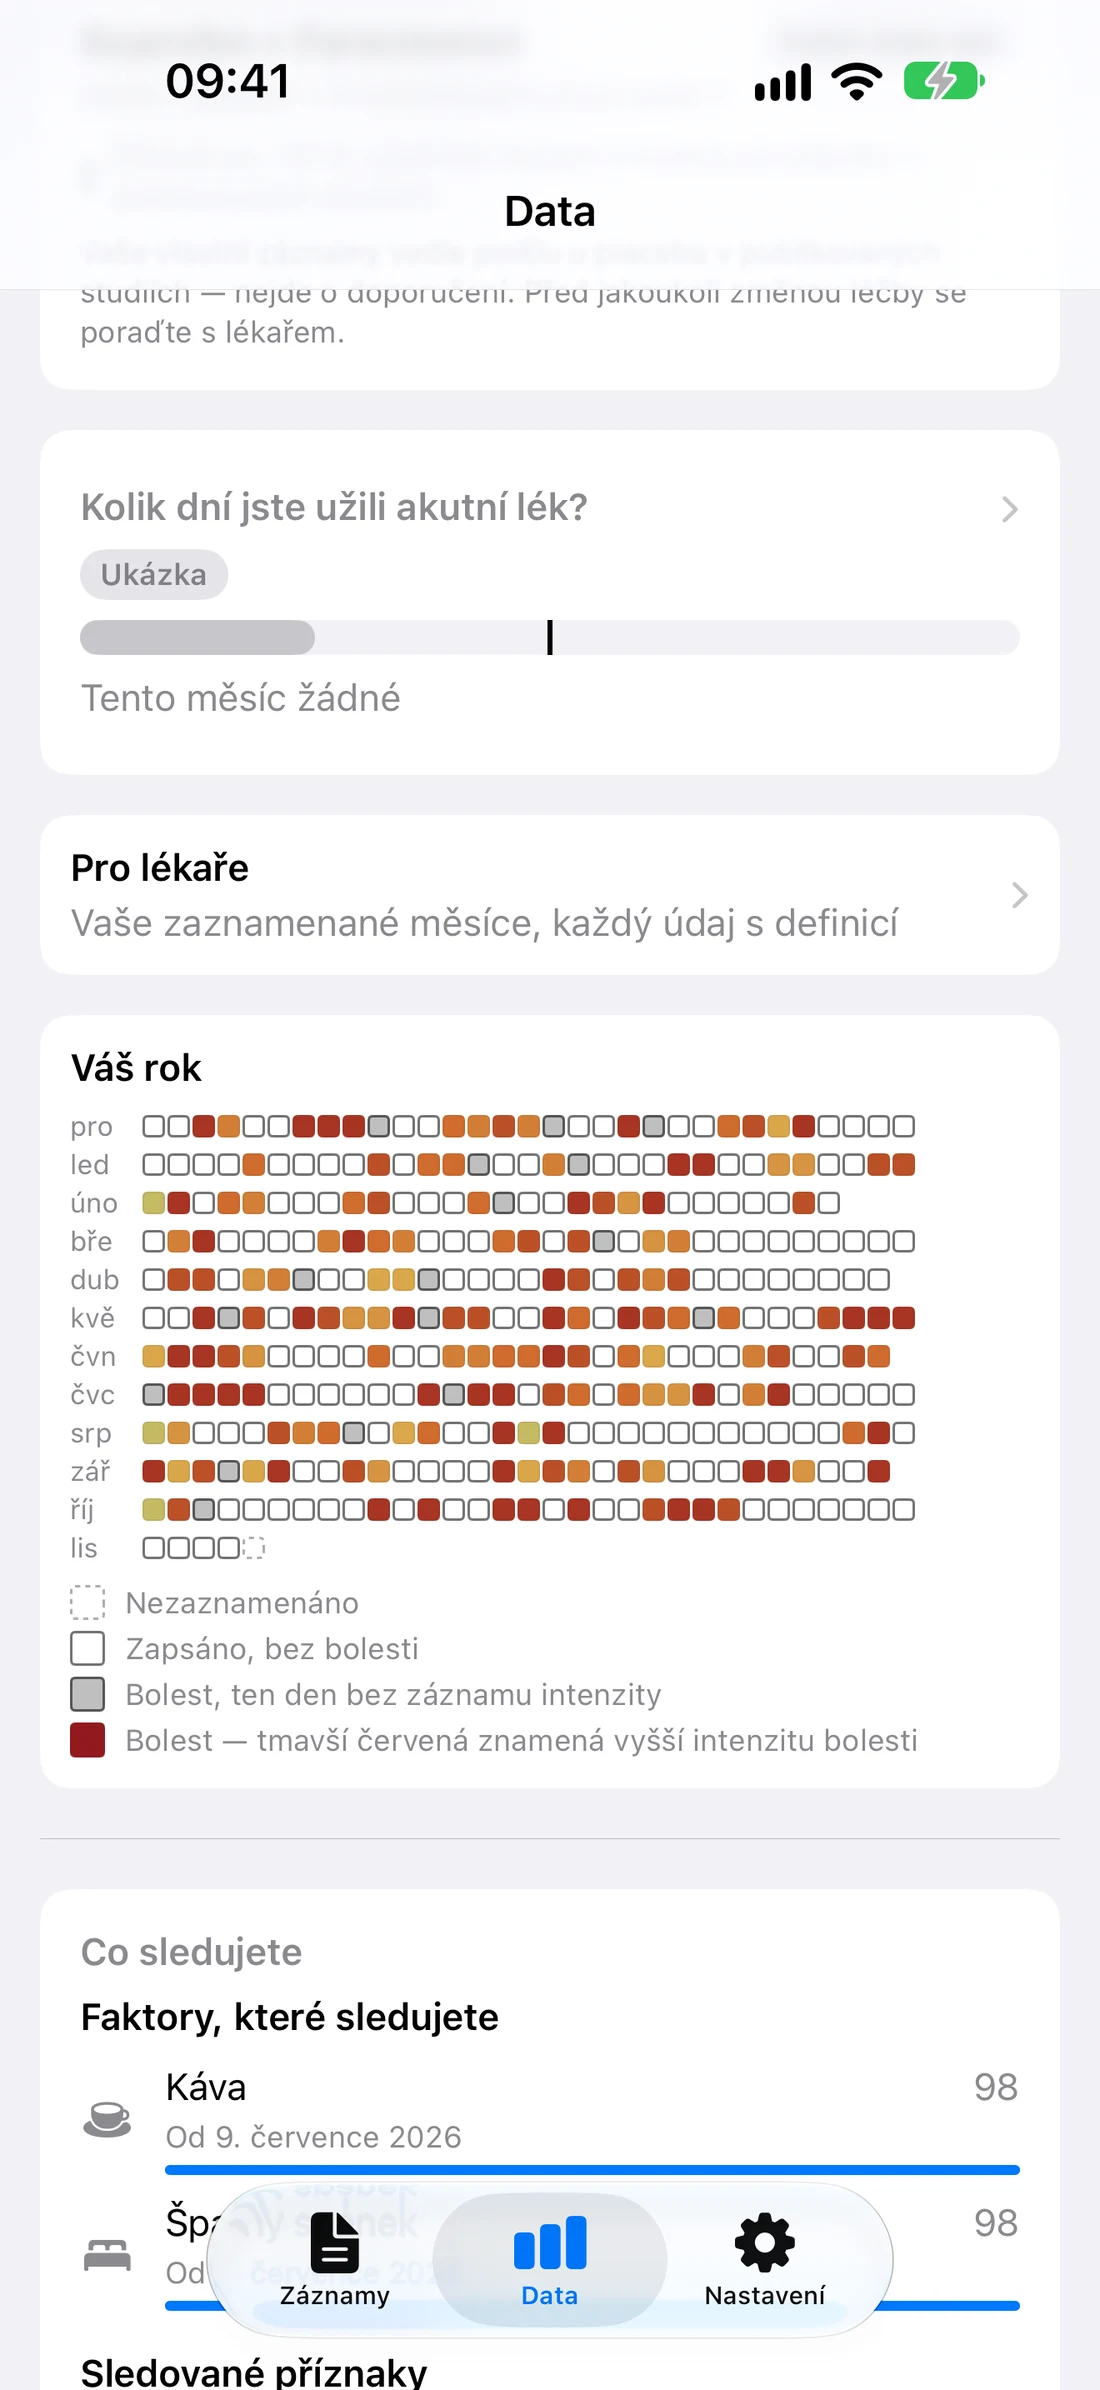
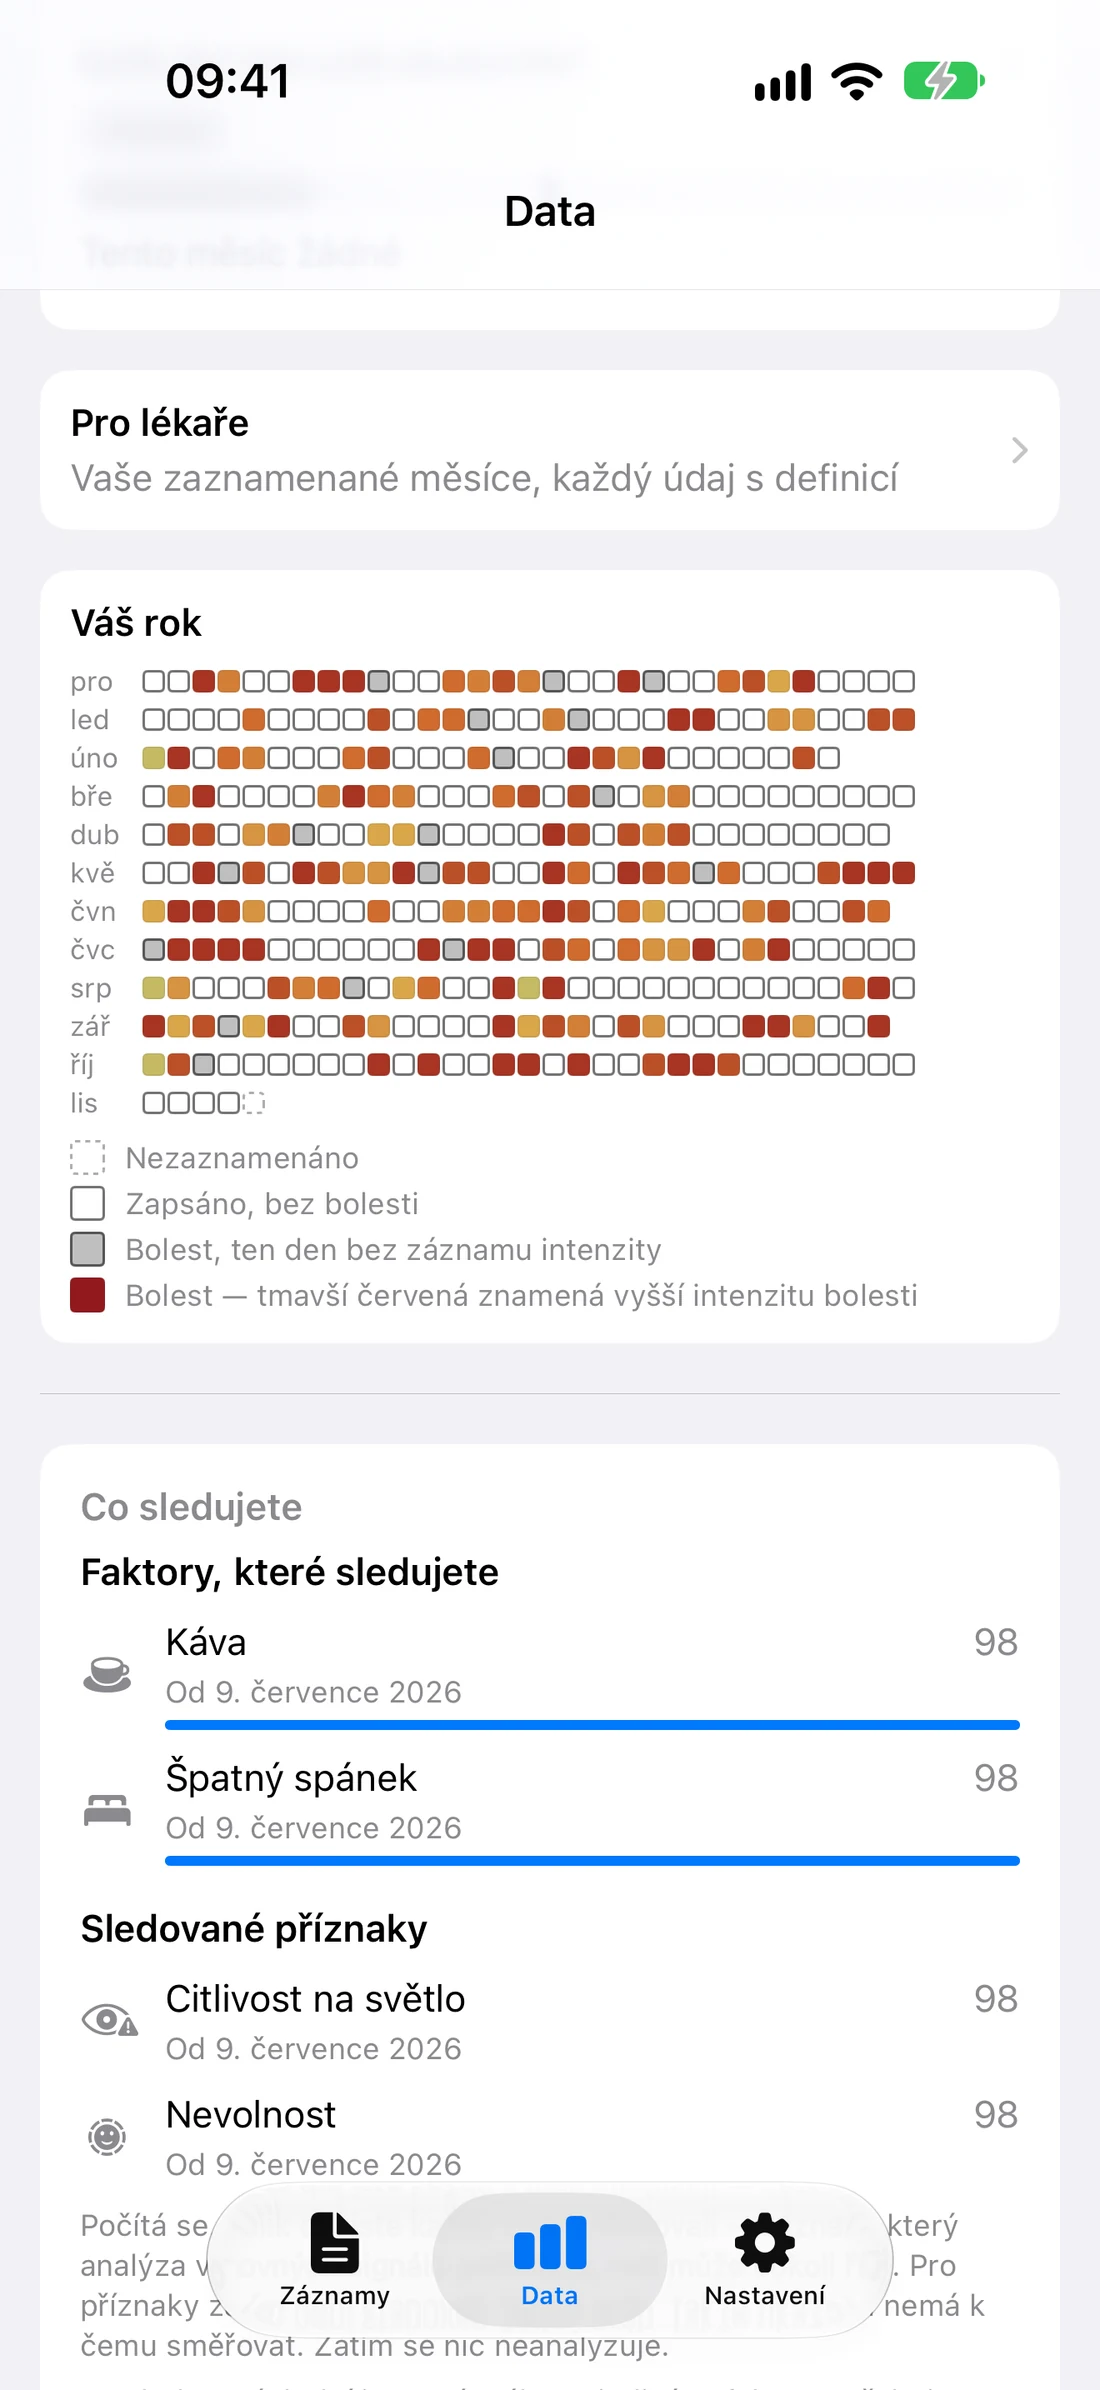
Languages: the recaptured Czech and Russian data screens
The assets session re-took the 1.1.0 data screen scrolled further, with the
For your doctor card at 150 pt, the same in every language. The share crop now
starts where the card is: 72.7% of the width down on the English capture, 26%
on the translated ones.

diff --git a/src/styles/landing.css b/src/styles/landing.css
@@ -93,7 +93,7 @@
 .crop-see { aspect-ratio: 330 / 390; }
 .crop-see-tall { aspect-ratio: 330 / 450; }
 .crop-share { aspect-ratio: 1; }
-.crop-share img { margin-top: -72.7%; }
+.crop-share img { margin-top: var(--share-shift, -72.7%); }
 
 /* ---------- privacy band (always dark) ---------- */
 .band { background: #0b1420; color: #f2f5f9; padding-block: 5rem; }
